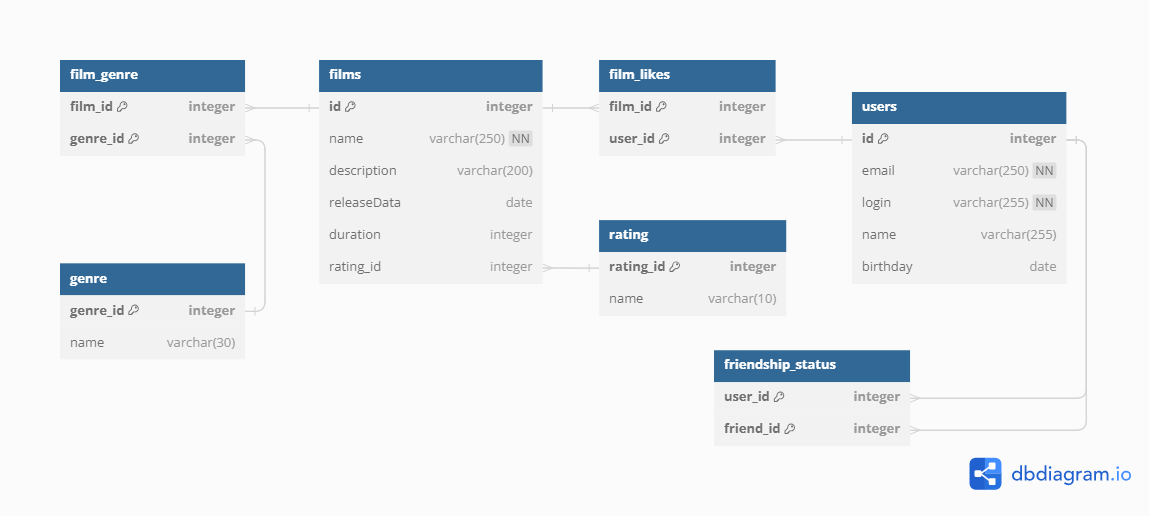
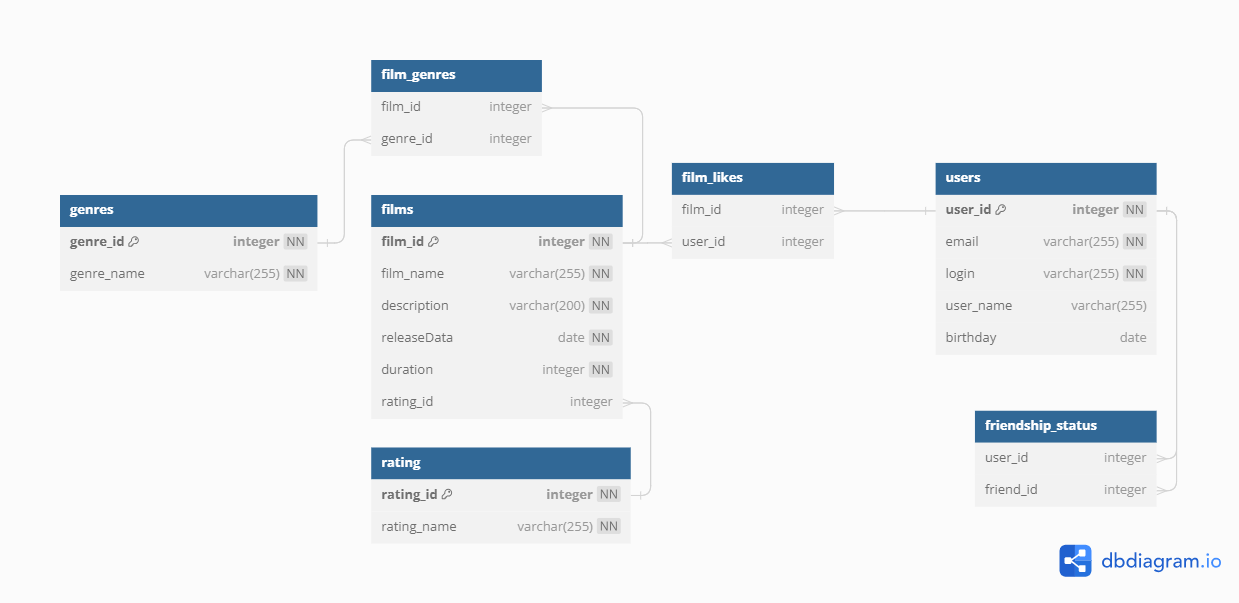
Добавлена база данных

diff --git a/README.md b/README.md
@@ -16,22 +16,22 @@ _Получение информации о пользователе с ID = 1:_
 
 <pre>SELECT *
 FROM users
-WHERE users.id = 1;
+WHERE users.user_id = 1;
 </pre>  
 _Сортировка фильмов по жанрам:_
-<pre>SELECT g.name,
-       f.name      	
+<pre>SELECT g.genre_name,
+       f.film_name      	
 FROM films AS f
-JOIN film_genre AS fg ON f.id  = fg.film_id
-JOIN genre AS g ON fg.genre_id = g.genre_id 
-order by g.name; 
+JOIN film_genres AS fg ON f.film_id  = fg.film_id
+JOIN genres AS g ON fg.genre_id = g.genre_id 
+order by g.genre_name; 
 </pre>
 
 _Получение списка фильмов, которым поставил лайк пользователь в имени которого первая буква "Д":_
 <pre>SELECT *
-FROM (SELECT f."name" AS f_name, 
-			 u."name" AS u_name 
-	  FROM films f JOIN film_likes fl ON f.id = fl.film_id 
-	               JOIN users u ON fl.user_id = u.id) AS fu 
-WHERE substr("u_name", 1 , 1) = 'Д'; 
+FROM (SELECT f.film_name AS f_name, 
+			 u.user_name AS u_name 
+	  FROM films f JOIN film_likes fl ON f.film_id = fl.film_id 
+	               JOIN users u ON fl.user_id = u.user_id) AS fu 
+WHERE substr(u_name, 1 , 1) = 'Д'; 
 </pre>
